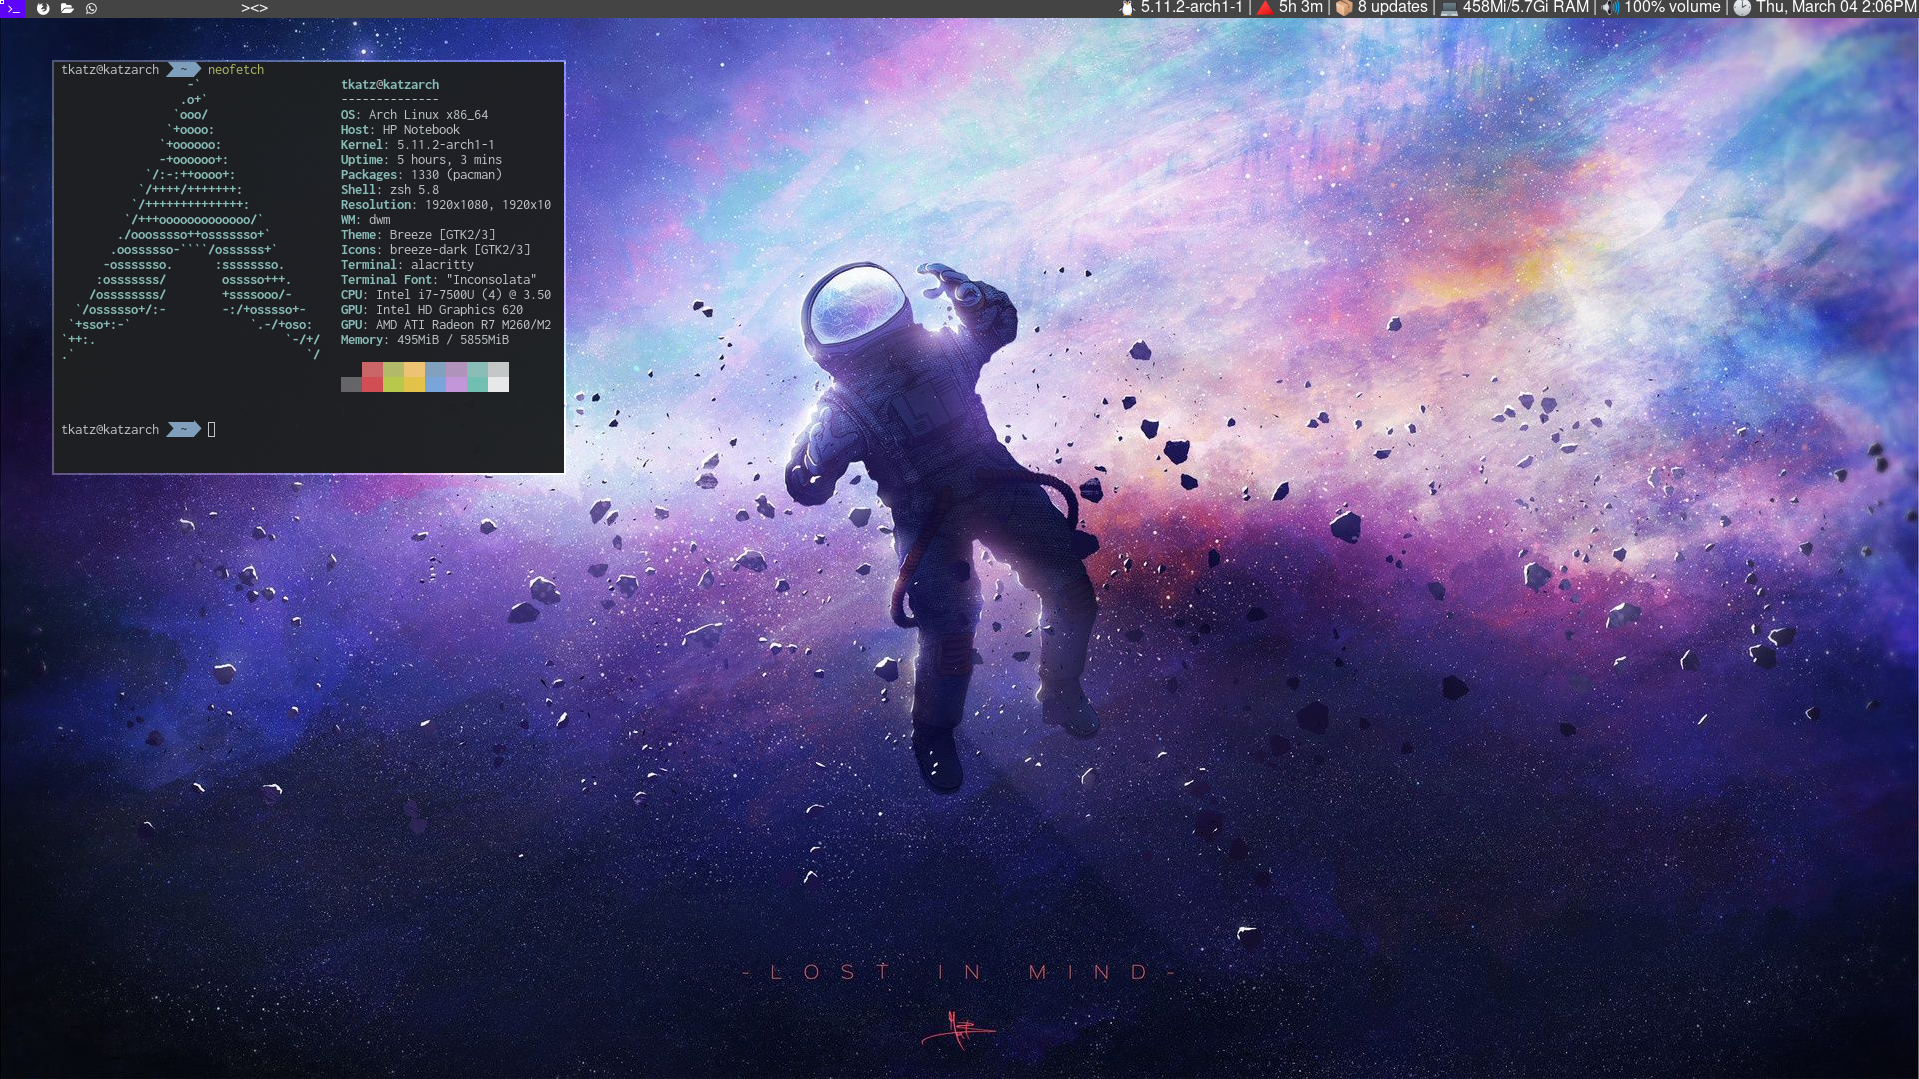
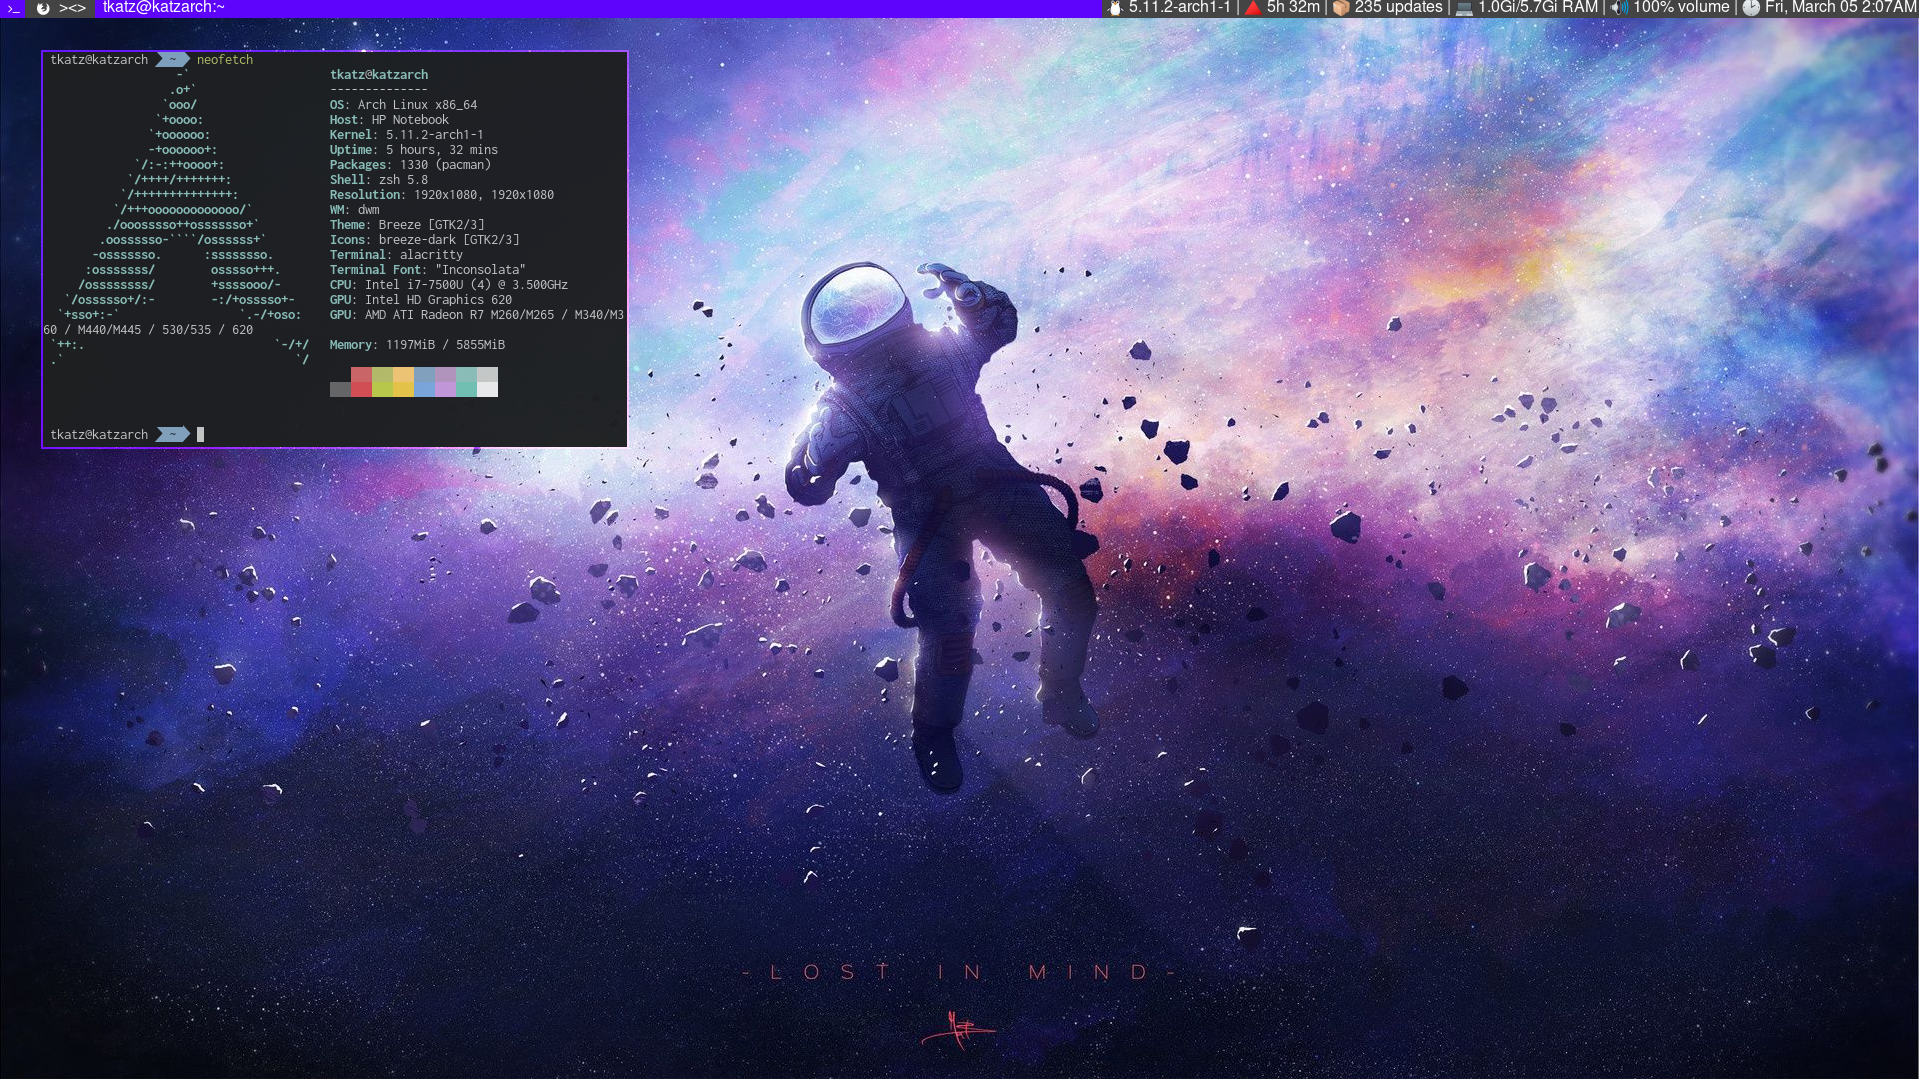
Patched hide-vacant-tags

Changed region(s): [[0.0, 0.0, 0.9224, 0.4588], [0.9838, 0.0, 1.0, 0.0306]]

diff --git a/dwm.c b/dwm.c
@@ -424,7 +424,7 @@ attachstack(Client *c)
 void
 buttonpress(XEvent *e)
 {
-	unsigned int i, x, click;
+	unsigned int i, x, click, occ = 0;
 	Arg arg = {0};
 	Client *c;
 	Monitor *m;
@@ -439,9 +439,14 @@ buttonpress(XEvent *e)
 	}
 	if (ev->window == selmon->barwin) {
 		i = x = 0;
-		do
+		for (c = m->clients; c; c = c->next)
+			occ |= c->tags == 255 ? 0 : c->tags;
+		do {
+			/* do not reserve space for vacant tags */
+			if (!(occ & 1 << i || m->tagset[m->seltags] & 1 << i))
+				continue;
 			x += TEXTW(tags[i]);
-		while (ev->x >= x && ++i < LENGTH(tags));
+		} while (ev->x >= x && ++i < LENGTH(tags));
 		if (i < LENGTH(tags)) {
 			click = ClkTagBar;
 			arg.ui = 1 << i;
@@ -717,20 +722,20 @@ drawbar(Monitor *m)
 	}
 
 	for (c = m->clients; c; c = c->next) {
-		occ |= c->tags;
+        occ |= c->tags == 255 ? 0 : c->tags;
 		if (c->isurgent)
 			urg |= c->tags;
 	}
 	x = 0;
 	for (i = 0; i < LENGTH(tags); i++) {
+        /* do not draw vacant tags */
+        if (!(occ & 1 << i || m->tagset[m->seltags] & 1 << i))
+            continue;
+
 		w = TEXTW(tags[i]);
 		wdelta = selmon->alttag ? abs(TEXTW(tags[i]) - TEXTW(tagsalt[i])) / 2 : 0;
 		drw_setscheme(drw, scheme[m->tagset[m->seltags] & 1 << i ? SchemeSel : SchemeNorm]);
 		drw_text(drw, x, 0, w, bh, wdelta + lrpad / 2, (selmon->alttag ? tagsalt[i] : tags[i]), urg & 1 << i);
-		if (occ & 1 << i)
-			drw_rect(drw, x + boxs, boxs, boxw, boxw,
-				m == selmon && selmon->sel && selmon->sel->tags & 1 << i,
-				urg & 1 << i);
 		x += w;
 	}
 	w = blw = TEXTW(m->ltsymbol);

diff --git a/config.def.h b/config.def.h
@@ -27,7 +27,7 @@ static const char *colors[][3]      = {
 
 /* tagging */
 static const char *tags[] = { "1", "2", "3", "4", "5", "6", "7", "8", "9" };
-static const char *tagsalt[] = { "", " ", "", "", " ", " ", " ", " ", " "};
+static const char *tagsalt[] = { "", " ", "", "", "", "", " ", " ", " "};
 
 static const Rule rules[] = {
 	/* xprop(1):

diff --git a/config.h b/config.h
@@ -27,7 +27,7 @@ static const char *colors[][3]      = {
 
 /* tagging */
 static const char *tags[] = { "1", "2", "3", "4", "5", "6", "7", "8", "9" };
-static const char *tagsalt[] = { "", " ", "", "", " ", " ", " ", " ", " "};
+static const char *tagsalt[] = { "", " ", "", "", "", "", " ", " ", " "};
 
 static const Rule rules[] = {
 	/* xprop(1):

diff --git a/README.md b/README.md
@@ -2,7 +2,7 @@
 
 dwm is an extremely fast, small, and dynamic window manager for X.
 
-# Personal config
+# Yet another config
 
 ![config](rice.png)
 
@@ -13,6 +13,7 @@ List of [patches](https://dwm.suckless.org/patches/):
 - bottomstack
 - alternativetags
 - gridmode
+- hide-vacant-tags
 
 ## Dependencies
 - libxft-bgra
